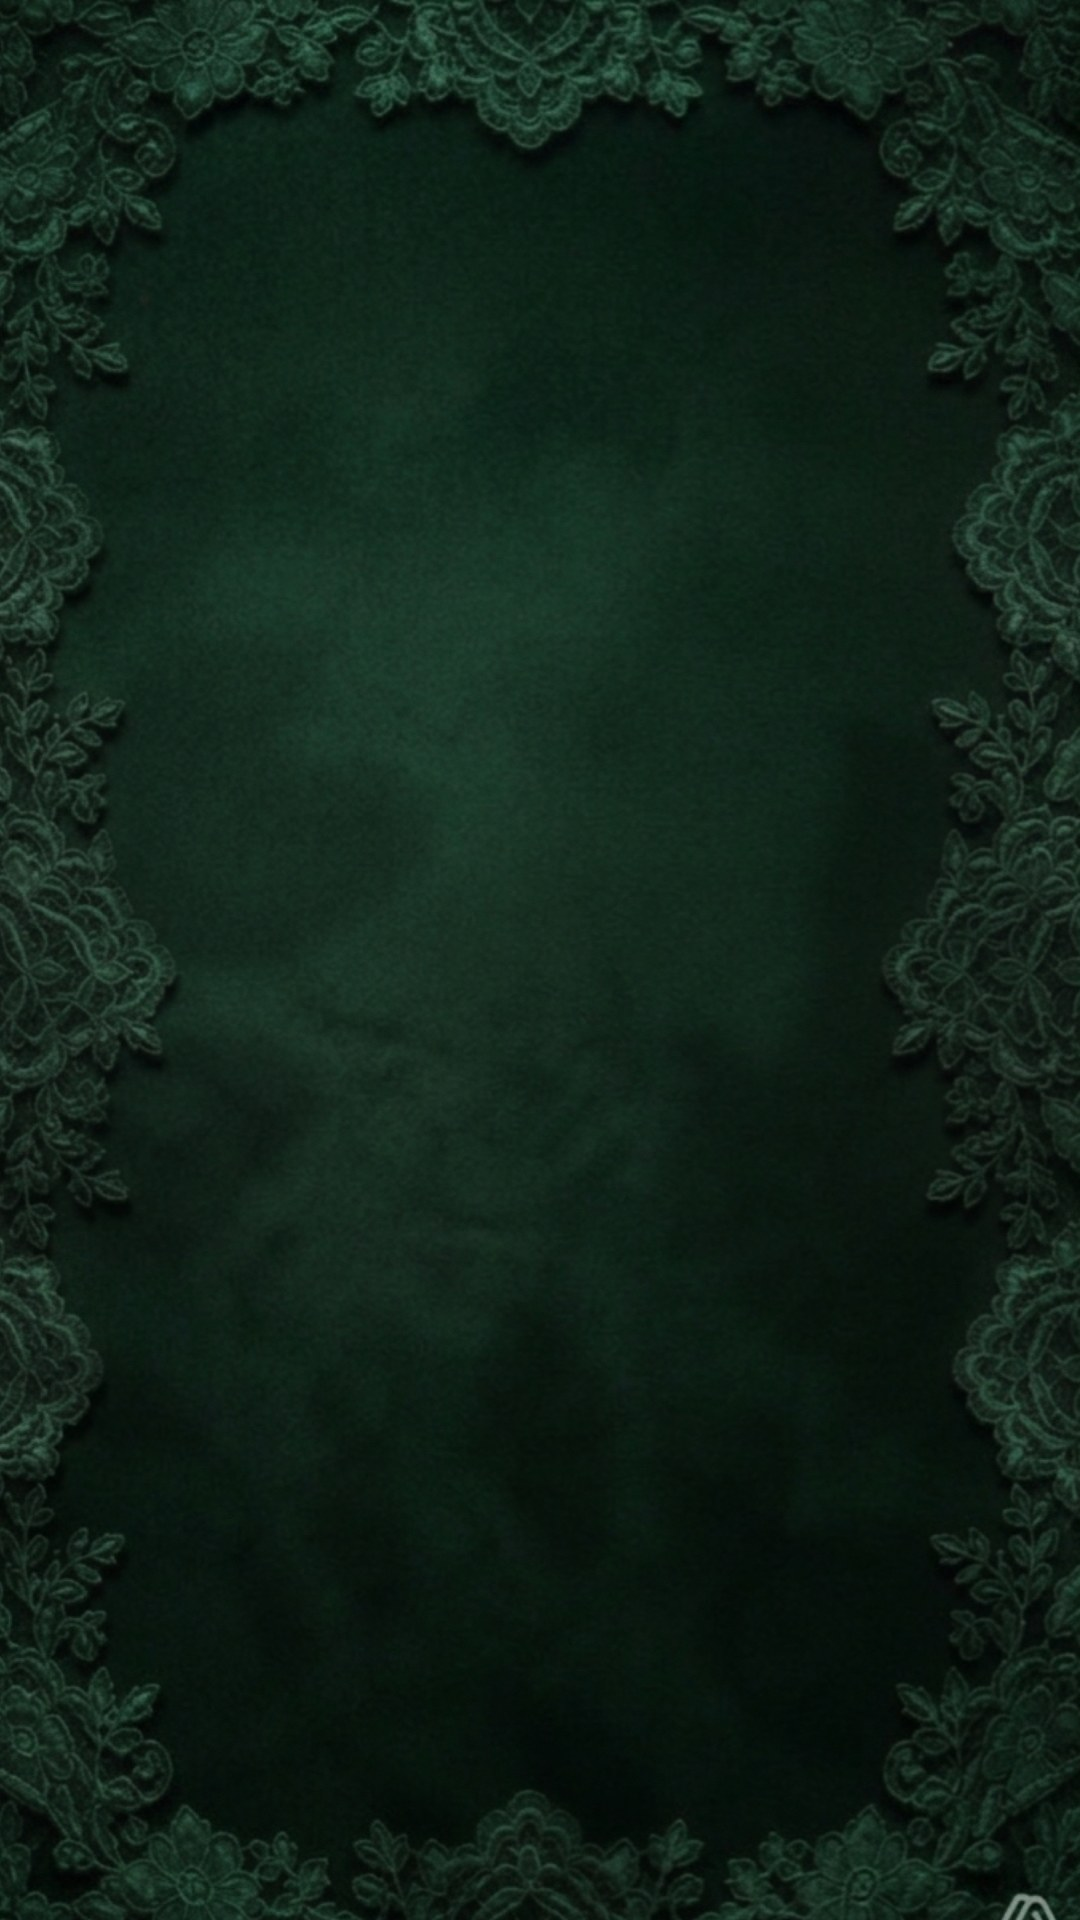
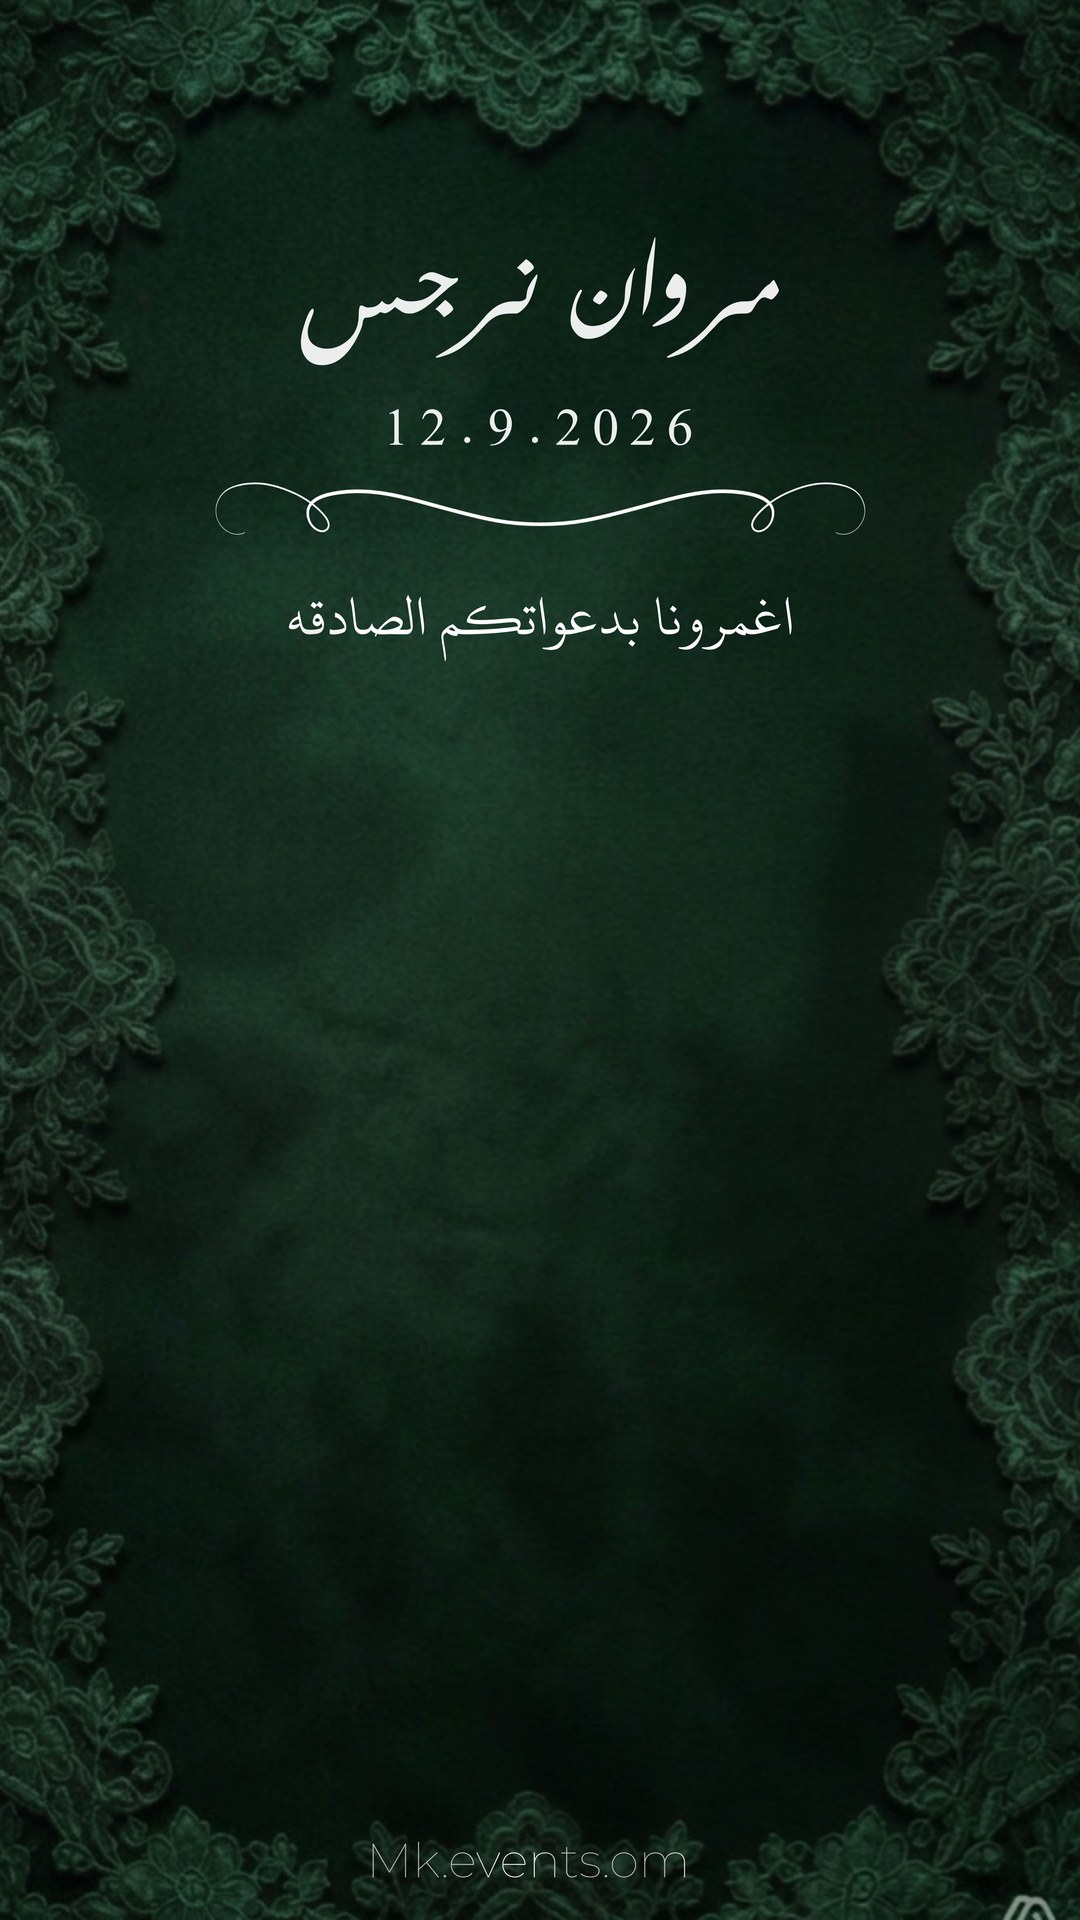
first commitfffss

diff --git a/templates/index.html b/templates/index.html
@@ -3,7 +3,7 @@
 <head>
   <meta charset="UTF-8">
   <meta name="viewport" content="width=device-width, initial-scale=1.0, viewport-fit=cover">
-
+  <title>{{ couple }} — دعواتكم</title>
   <link rel="preconnect" href="https://fonts.googleapis.com">
   <link rel="preconnect" href="https://fonts.gstatic.com" crossorigin>
   <link href="https://fonts.googleapis.com/css2?family=Aref+Ruqaa:wght@400;700&family=El+Messiri:wght@400;500;600;700&display=swap" rel="stylesheet">
@@ -12,28 +12,26 @@
 <body>
   <div class="stage">
     <div class="story">
-      <div class="inner">
+      <div class="inner form-only">
 
-        <div class="header">
        
-        </div>
 
         <form class="card" method="POST" action="{{ url_for('index') }}">
           {% if error %}<div class="error">{{ error }}</div>{% endif %}
 
           <div class="field">
-            <label for="name">اسمك</label>
+            <label for="name">اسمكِ</label>
             <input type="text" id="name" name="name" maxlength="80"
-                   placeholder="مثال: أبو محمد" value="{{ name or '' }}" required>
+                   placeholder="اكتبي اسمكِ" value="{{ name or '' }}" required>
           </div>
 
           <div class="field">
-            <label for="message">كلمتك</label>
+            <label for="message">دعوتكِ أو كلمتكِ</label>
             <textarea id="message" name="message" maxlength="1000"
-                      placeholder="اكتب تهنئتك أو دعوتك للعروسين…" required>{{ message or '' }}</textarea>
+                      placeholder="اكتبي تهنئتكِ ودعوتكِ للعروسين…" required>{{ message or '' }}</textarea>
           </div>
 
-          <button type="submit" class="btn">أرسل كلمتك</button>
+          <button type="submit" class="btn">أرسلي كلمتكِ</button>
         </form>
 
       </div>

diff --git a/static/style.css b/static/style.css
@@ -36,7 +36,7 @@ html, body {
   max-height: calc(100dvh - 32px);
   overflow: hidden;
   border-radius: 18px;
-  background-image: var(--bg, url("/static/bg.jpeg"));
+  background-image: var(--bg, url("/static/background.jpg"));
   background-size: cover;
   background-position: center;
   box-shadow: 0 30px 80px -30px rgba(0,0,0,0.8);
@@ -177,7 +177,7 @@ textarea { resize: none; min-height: 84px; line-height: 1.6; }
 }
 
 /* ===== صفحة الشكر ===== */
-.thanks .inner { justify-content: center; gap: 8px; }
+.thanks-block { width: 100%; }
 .seal {
   width: 78px; height: 78px;
   margin: 0 auto 22px;
@@ -307,3 +307,17 @@ textarea { resize: none; min-height: 84px; line-height: 1.6; }
 }
 .login-card p { color: var(--ivory-dim); font-size: 0.9rem; margin-bottom: 20px; }
 .login-card .btn { margin-top: 6px; }
+
+/* ===== وضع النموذج فقط (الترويسة مطبوعة داخل الصورة) ===== */
+.inner.form-only {
+  justify-content: flex-end;
+  padding-top: 40px;
+  padding-bottom: 96px; /* مساحة لتوقيع Mk.events أسفل الصورة */
+  gap: 14px;
+}
+.prompt {
+  color: var(--gold);
+  font-size: 1.06rem;
+  margin-bottom: 2px;
+  text-shadow: 0 2px 12px rgba(0,0,0,0.55);
+}

diff --git a/templates/thanks.html b/templates/thanks.html
@@ -12,13 +12,12 @@
 <body>
   <div class="stage">
     <div class="story thanks">
-      <div class="inner">
-        <div>
-       
-          <p>كلماتك وصلتنا</p>
+      <div class="inner form-only">
+        <div class="thanks-block">
+          <p>دعواتكِ وصلتنا</p>
           <h1>شكراً <span class="thanks-name">{{ name }}</span></h1>
-          <p>تهنئتك صارت جزءاً من ذكرى هذا اليوم،<br>وبتبقى محفوظة عند العروسين.</p>
-          <a class="back-link" href="{{ url_for('index') }}">أضف كلمة أخرى</a>
+          <p>دعوتكِ صارت جزءاً من ذكرى هذا اليوم،<br>وبتبقى محفوظة عند العروسين.</p>
+          <a class="back-link" href="{{ url_for('index') }}">أضيفي كلمة أخرى</a>
         </div>
       </div>
     </div>
